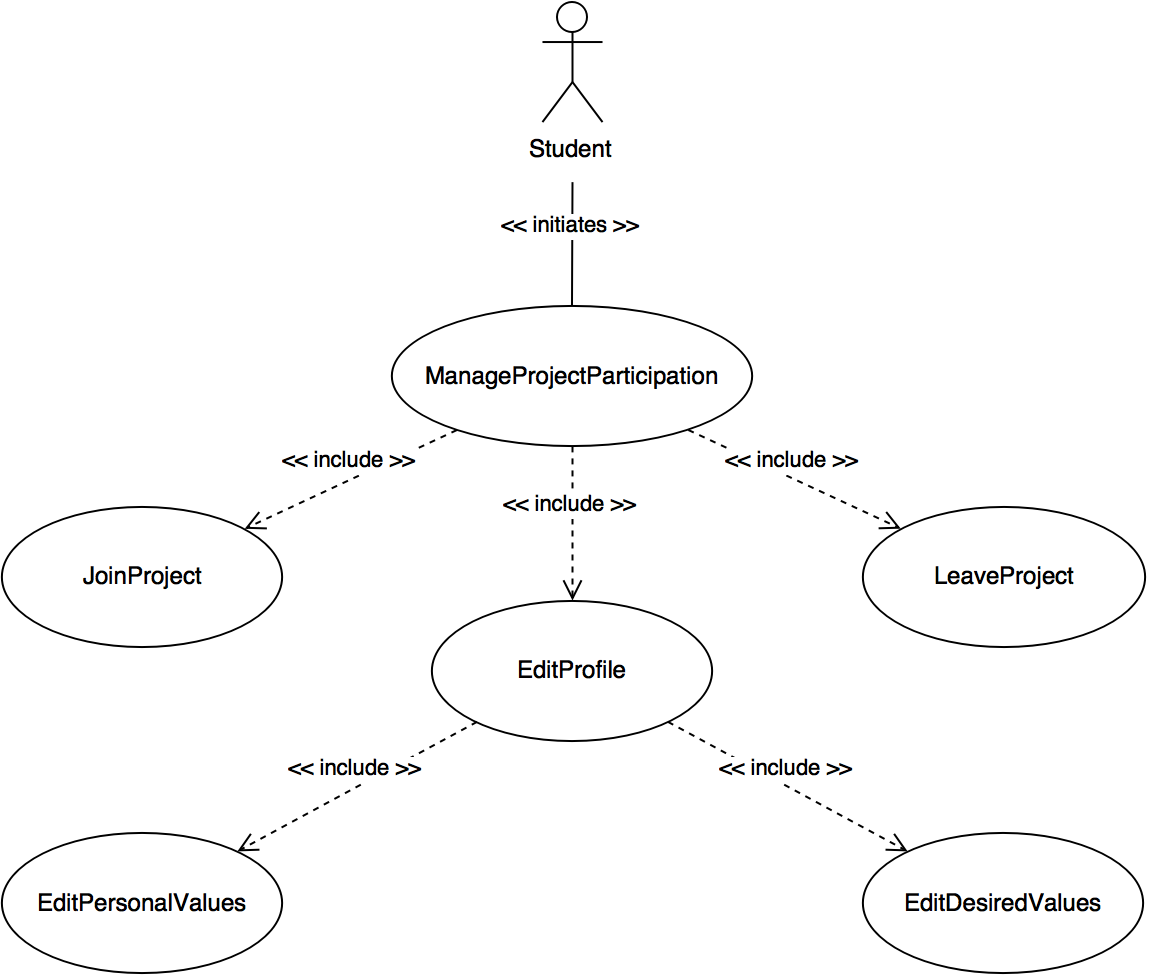
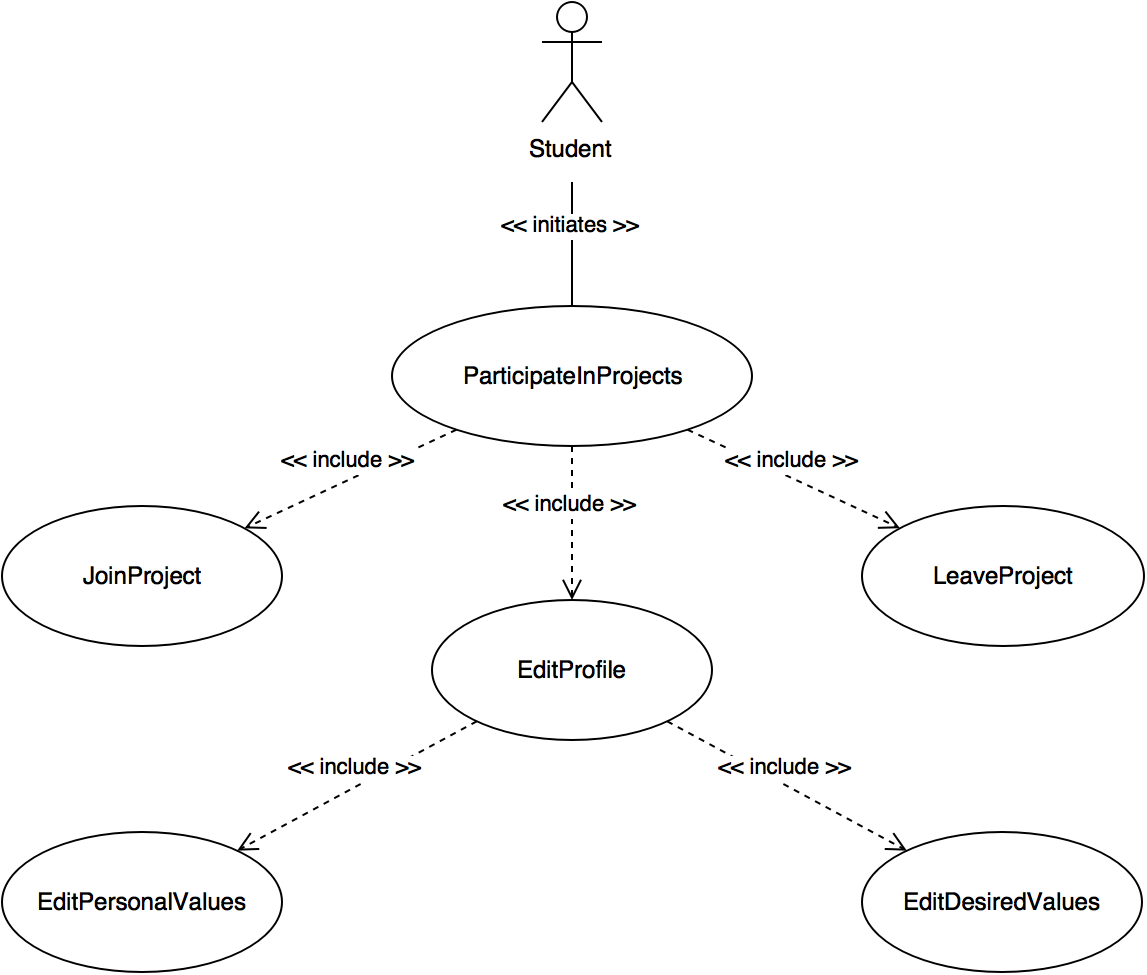
Updated details student use case. Added automatic use case numbering.

diff --git a/docs/main.tex b/docs/main.tex
@@ -28,29 +28,35 @@
 \newcommand{\personthree}{Juhandr\'e Knoetze}
 \newcommand{\ccindent}{\hspace{1.5em}\hangindent=1.5em}
 
-\newcommand{\participateinprojects}{UC-01}
-\newcommand{\manageprojects}{UC-02}
-\newcommand{\viewppiddetails}{UC-03}
-\newcommand{\createnewproject}{UC-04}
-\newcommand{\launchppid}{UC-05}
-\newcommand{\viewppidsummary}{UC-06}
-\newcommand{\editproject}{UC-07}
-\newcommand{\editprojectdetails}{UC-08}
-\newcommand{\addstudent}{UC-09}
-\newcommand{\removestudent}{UC-10}
-\newcommand{\joinproject}{UC-11}
-\newcommand{\leaveproject}{UC-12}
-\newcommand{\editprofile}{UC-13}
-\newcommand{\editpersonalvalues}{UC-14}
-\newcommand{\editdesiredvalues}{UC-15}
-\newcommand{\saveerror}{UC-16}
-\newcommand{\openerror}{UC-17}
-\newcommand{\readerror}{UC-18}
-\newcommand{\writeerror}{UC-19}
-\newcommand{\closeerror}{UC-20}
-\newcommand{\invalidinputerror}{UC-21}
-\newcommand{\invalidstudenterror}{UC-22}
-\newcommand{\insufficientstudentserror}{UC-23}
+%% USE-CASE COMMANDS
+\newcounter{usecasenum}
+\renewcommand{\theusecasenum}{UC-\ifnum\value{usecasenum}<10 0\fi\arabic{usecasenum}}
+\newcommand{\newusecase}[1]{\refstepcounter{usecasenum}\label{#1}\expandafter\newcommand\csname #1\endcsname{\ref{#1}}}
+
+\newusecase{participateinprojects}
+\newusecase{manageprojects}
+\newusecase{viewppiddetails}
+\newusecase{createnewproject}
+\newusecase{launchppid}
+\newusecase{viewppidsummary}
+\newusecase{editproject}
+\newusecase{editprojectdetails}
+\newusecase{addstudent}
+\newusecase{removestudent}
+\newusecase{joinproject}
+\newusecase{leaveproject}
+\newusecase{editprofile}
+\newusecase{editpersonalvalues}
+\newusecase{editdesiredvalues}
+\newusecase{saveerror}
+\newusecase{openerror}
+\newusecase{readerror}
+\newusecase{writeerror}
+\newusecase{closeerror}
+\newusecase{invalidinputerror}
+\newusecase{invalidstudenterror}
+\newusecase{insufficientstudentserror}
+%% END USE-CASE COMMANDS
 % END CUSTOM COMMANDS
 
 % TABLE STYLING
